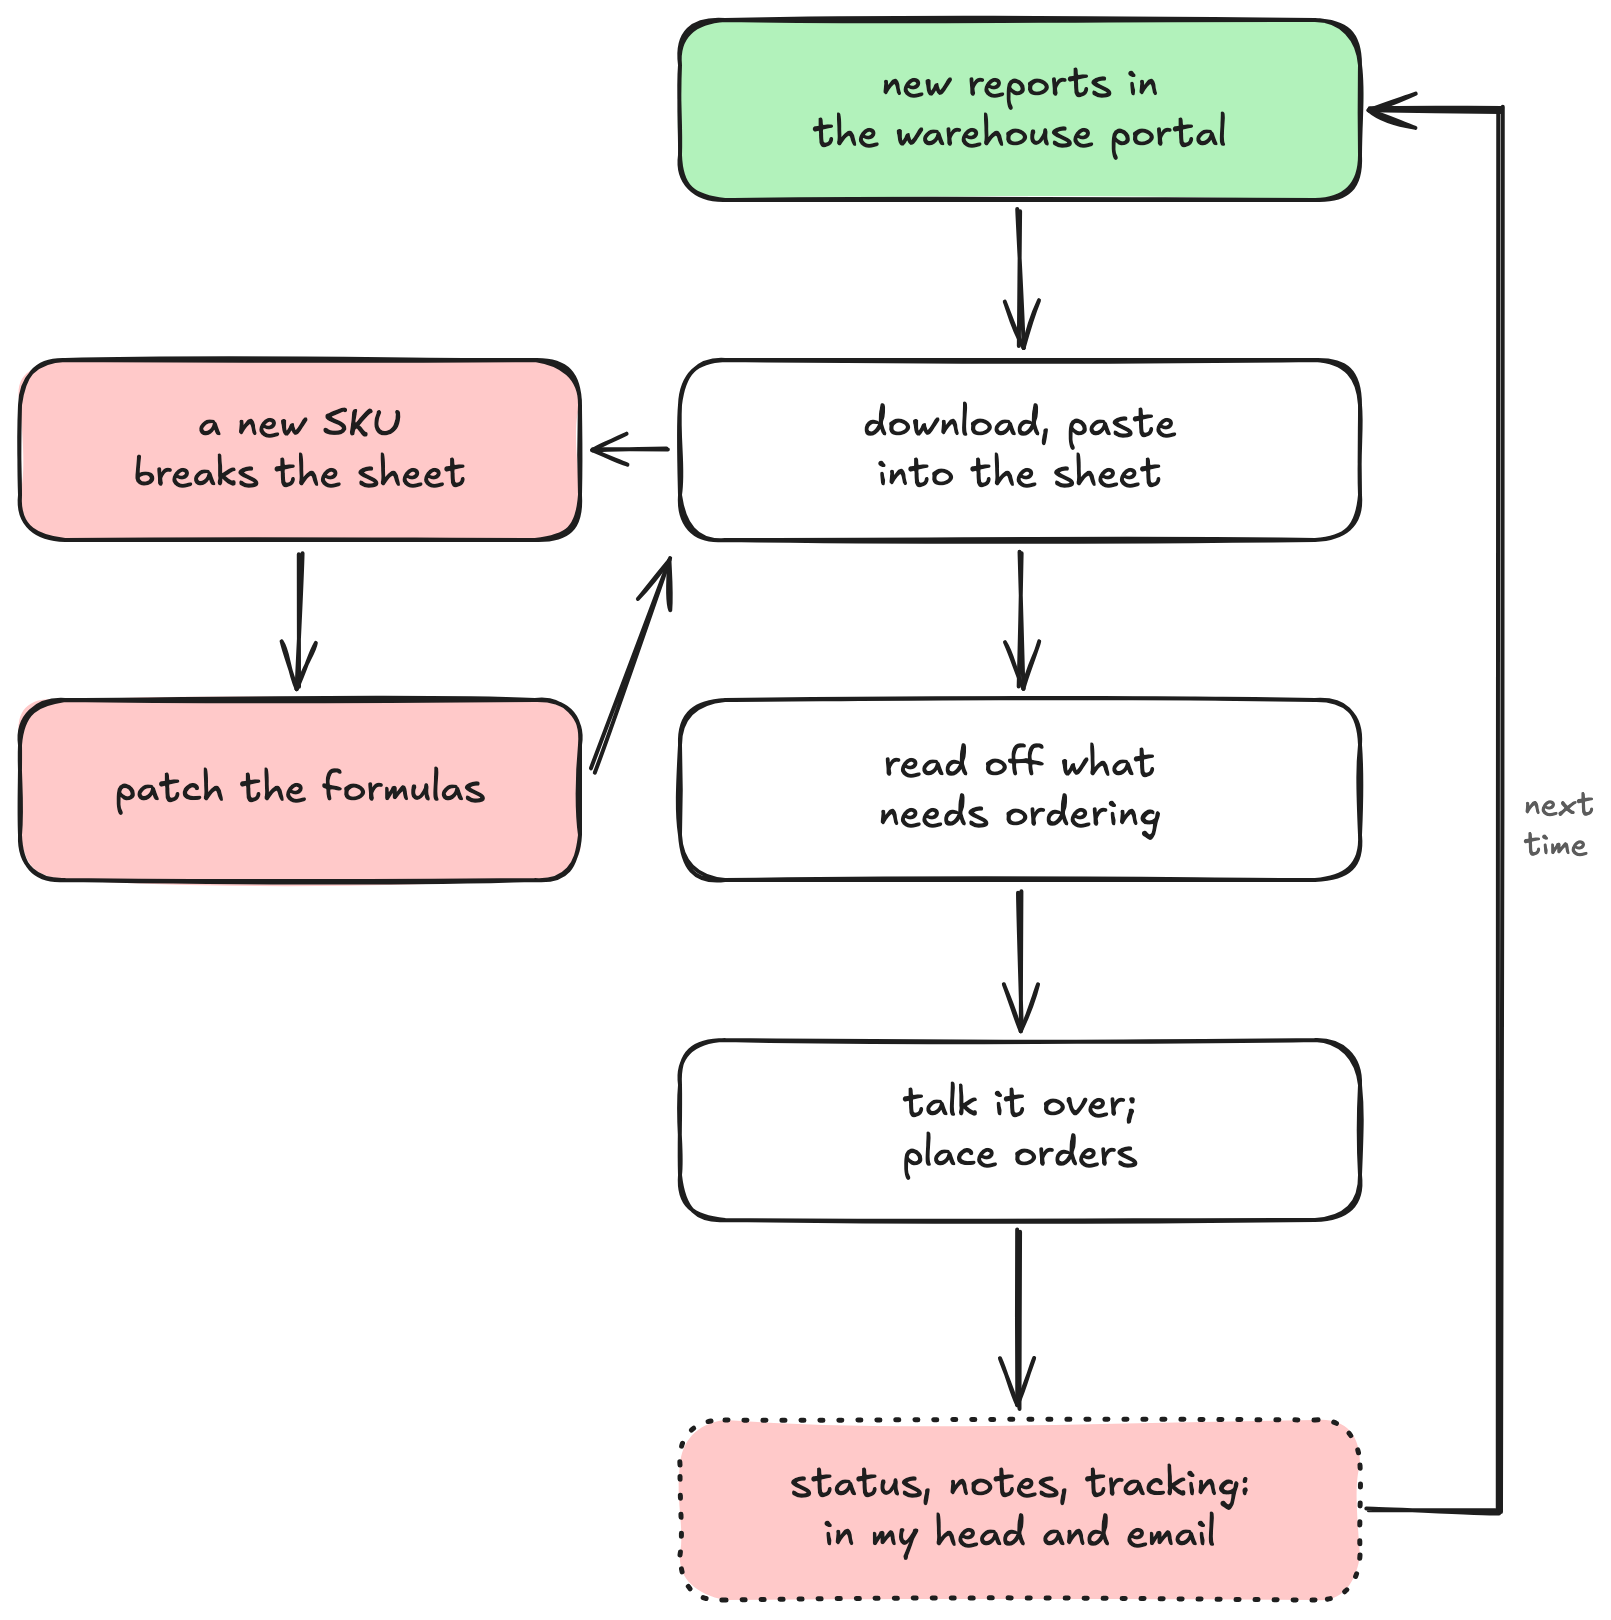
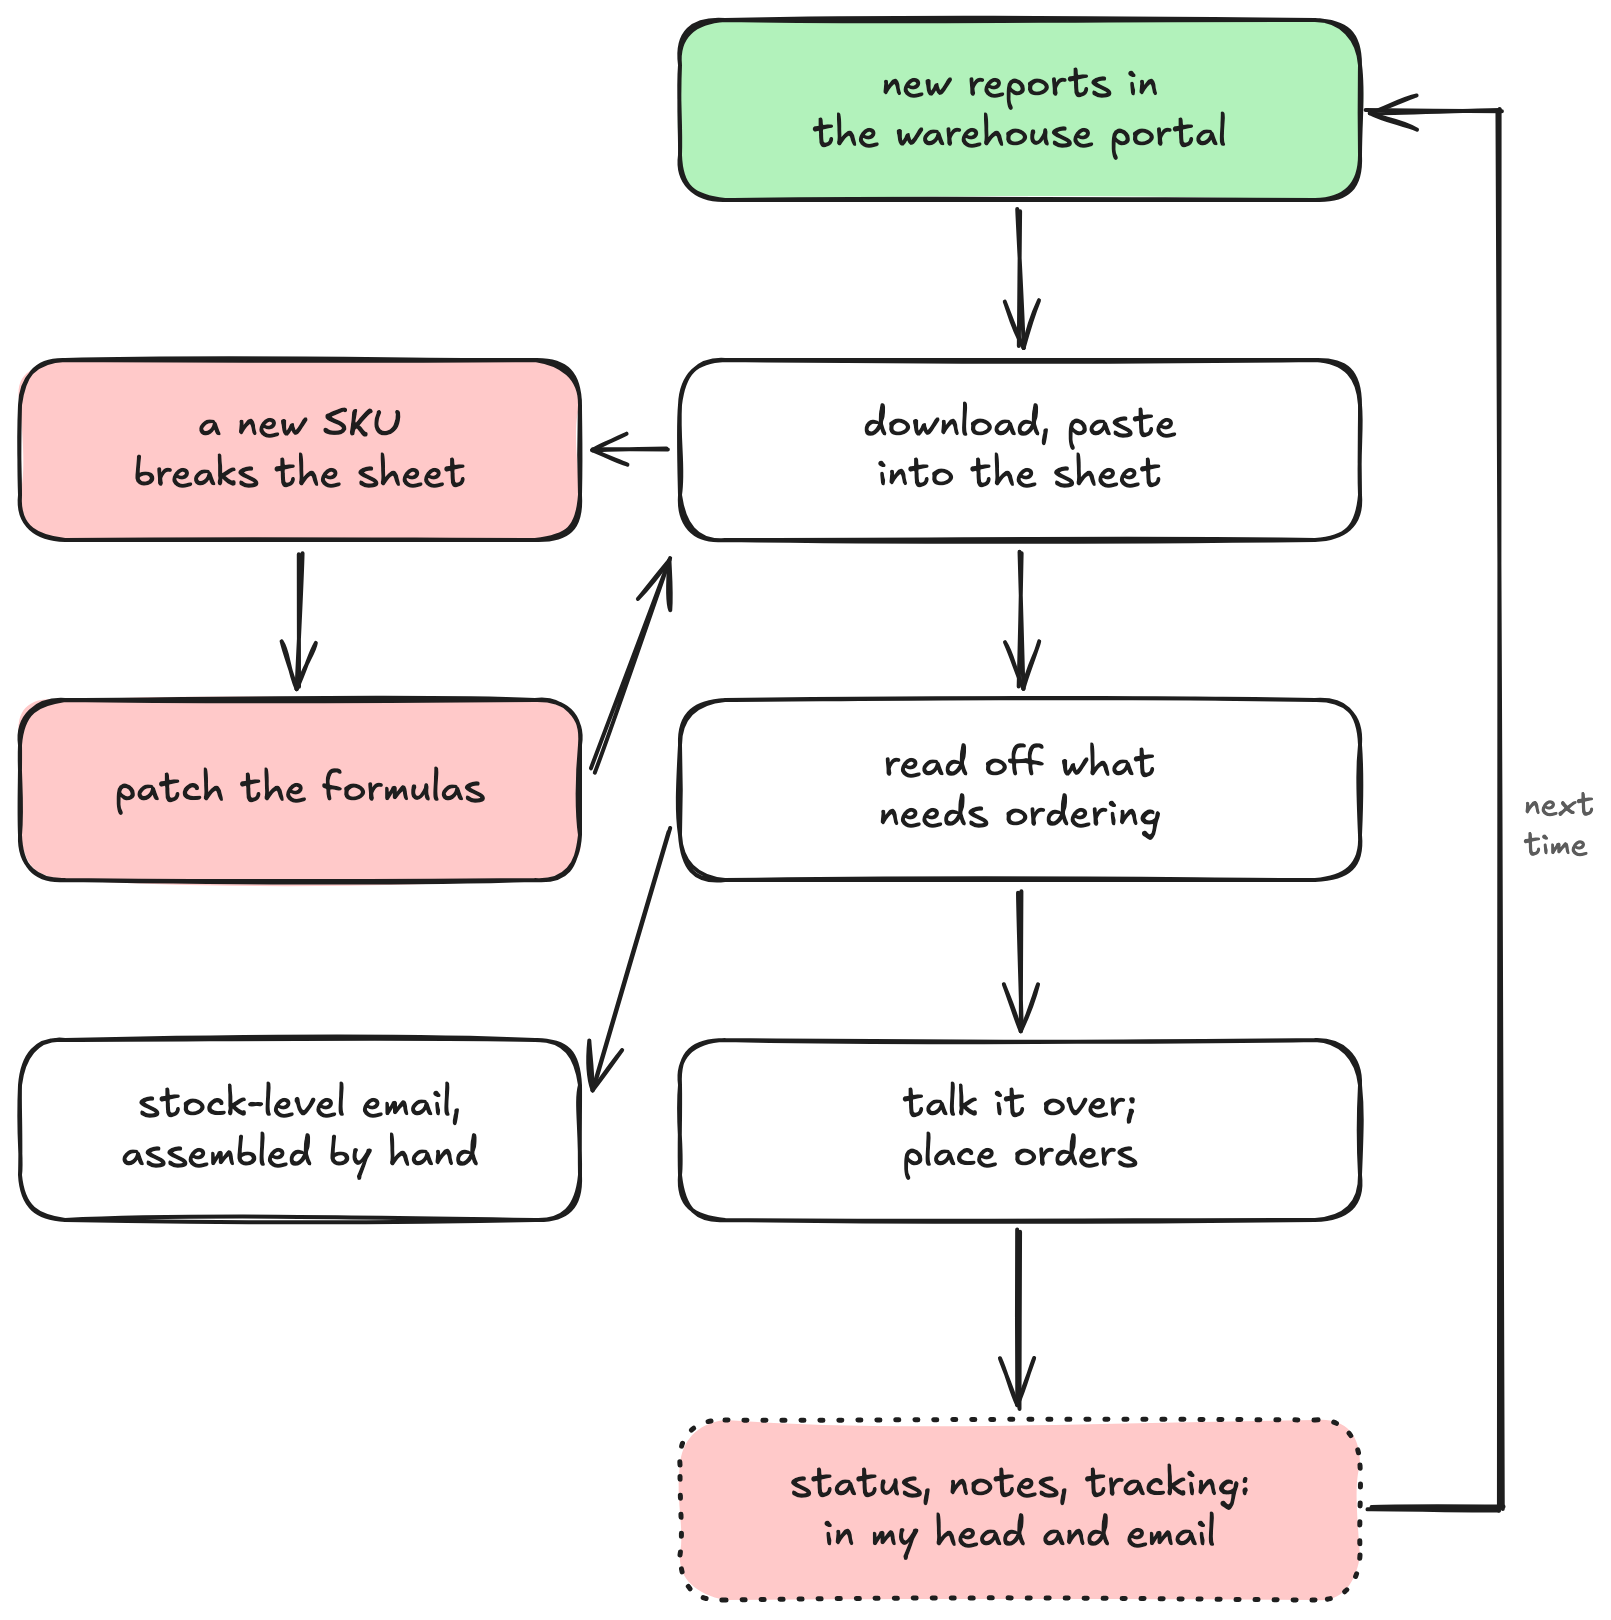
Before diagram: the stock-level email was also assembled off the sheet

diff --git a/diagrams/generate-inventory-ops.py b/diagrams/generate-inventory-ops.py
@@ -233,6 +233,12 @@ def before():
     els.append(arrow(lx, ys["B"] + H / 2 + 6, lx, ys["B"] + 170 - H / 2 - 6))
     els.append(arrow(lx + LW / 2 + 6, ys["B"] + 170 - 10, cx - W / 2 - 6, ys["B"] + H / 2 + 10))
 
+    # The second output of the sheet: the stock-level email, assembled by hand
+    # (Daniel, 2026-10-28). Branches off the read-off step beside the orders path.
+    ey = ys["F"]
+    els += labeled_box(lx, ey, LW, H, "stock-level email,\nassembled by hand")
+    els.append(arrow(cx - W / 2 - 6, ys["E"] + 20, lx + LW / 2 + 6, ey - 20))
+
     # And the whole thing runs again next time.
     rx = cx + W / 2 + 70
     els.append(arrow(cx + W / 2 + 4, ys["G"], rx, ys["G"], head=None))
